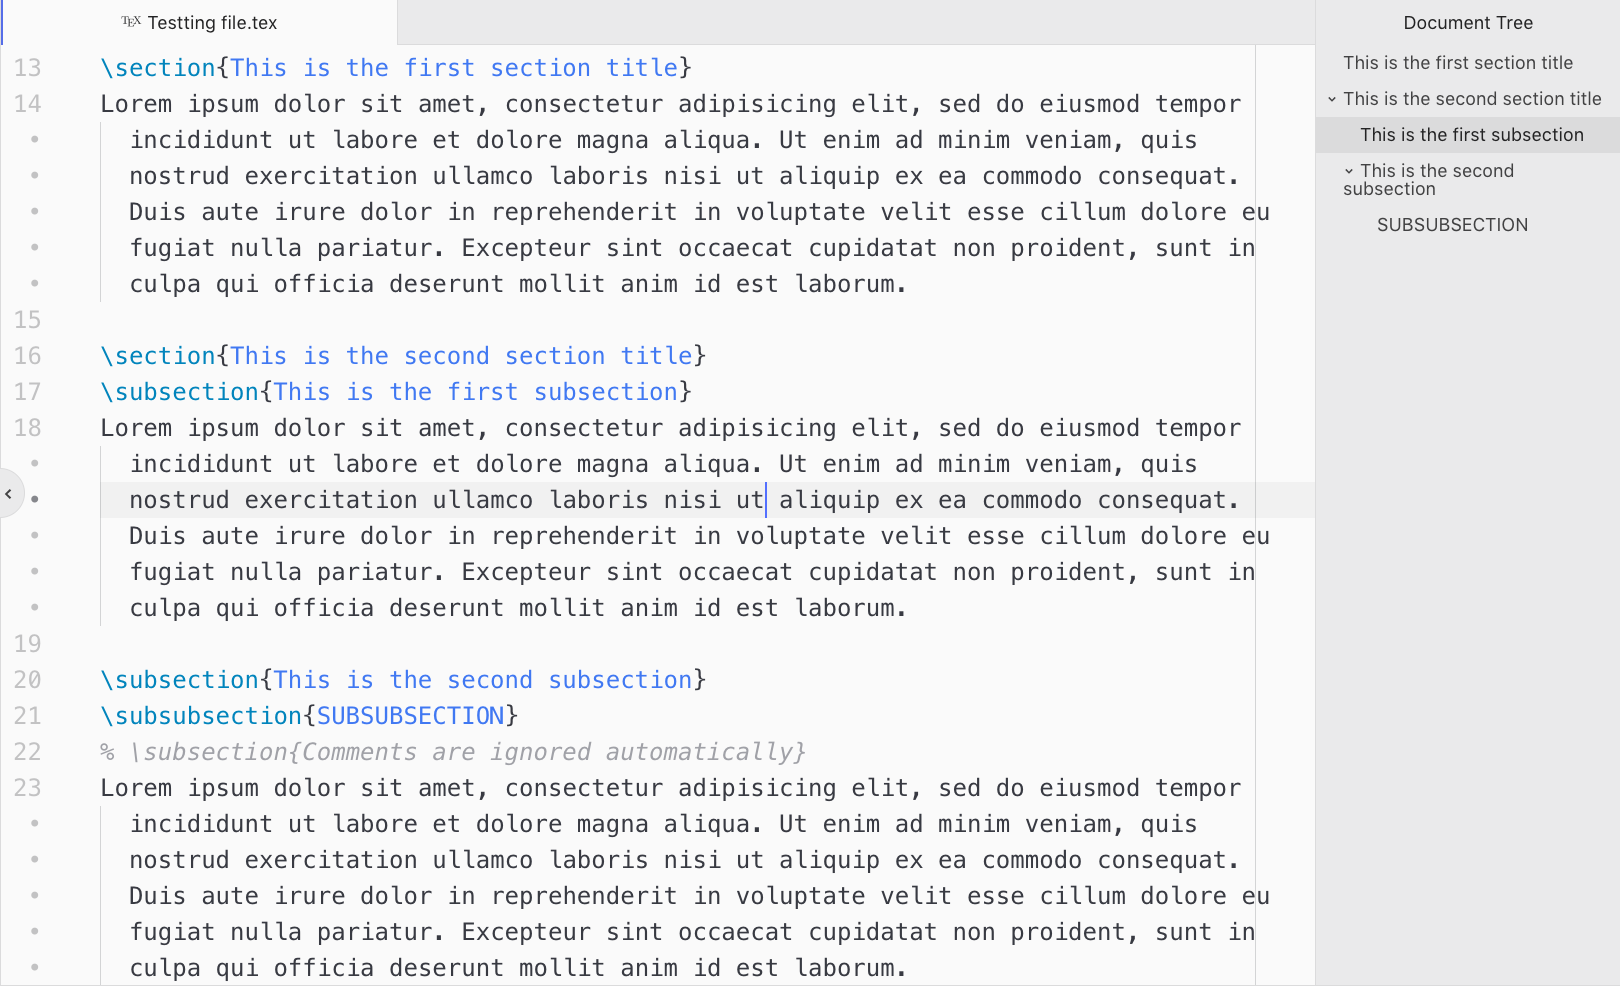
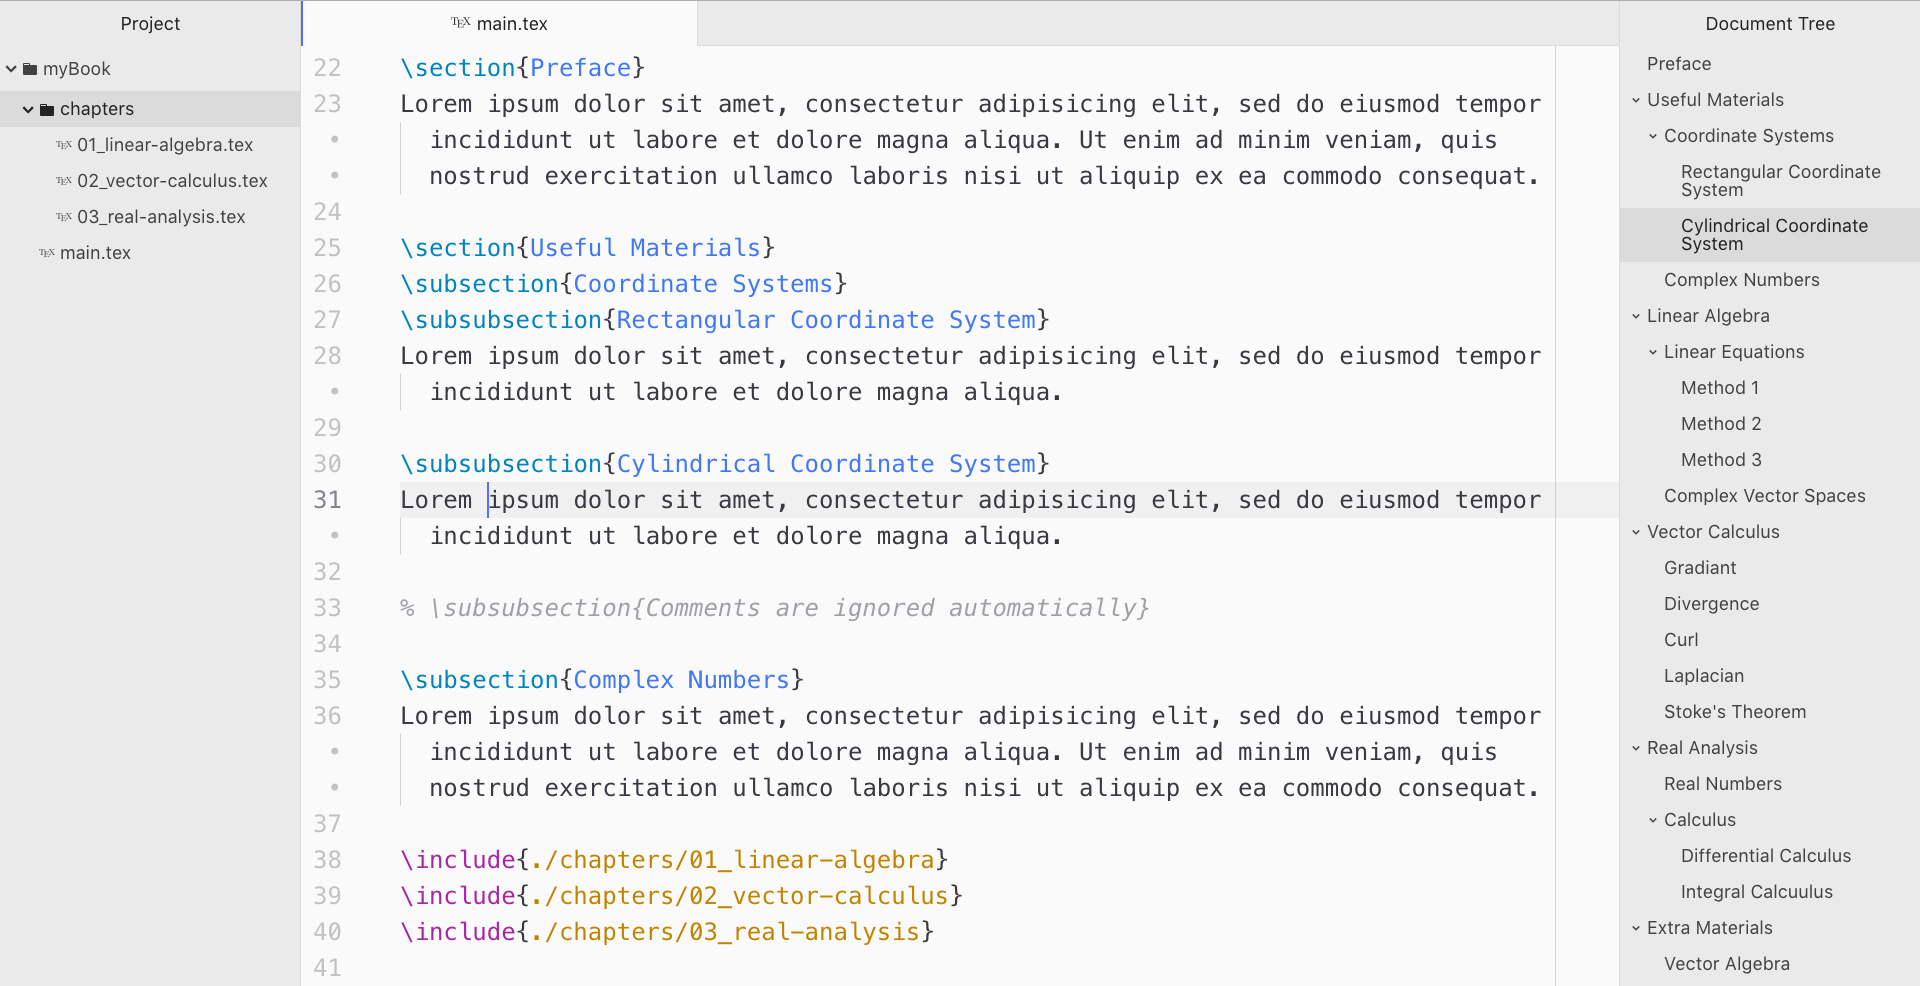
Update readme, screenshot, changelog and package.json for 0.3.0

diff --git a/README.md b/README.md
@@ -37,6 +37,7 @@ You could also specify the main root file by using the "TeX Magic Comment"
 ```
 at the beginning of **each subfile** included by the main root file
 (see the [documentation for the `latex` package](https://github.com/thomasjo/atom-latex/wiki/Overridding-Build-Settings) for more details).
+This would cause the document tree to be generated from the main root file instead of the current file.
 
 ## Settings
 #### Update Frequency

diff --git a/CHANGELOG.md b/CHANGELOG.md
@@ -1,3 +1,6 @@
+### 0.3.0 - Support for multi-file documents
+* Added support for documents with multiple files, see the [relevant section in readme](https://github.com/raphael-cch/latex-tree#multi-file-support) for more details
+
 ### 0.2.1 - Bugfix
 * Minor bug fix: TypeError when there is nothing in the document tree
 
